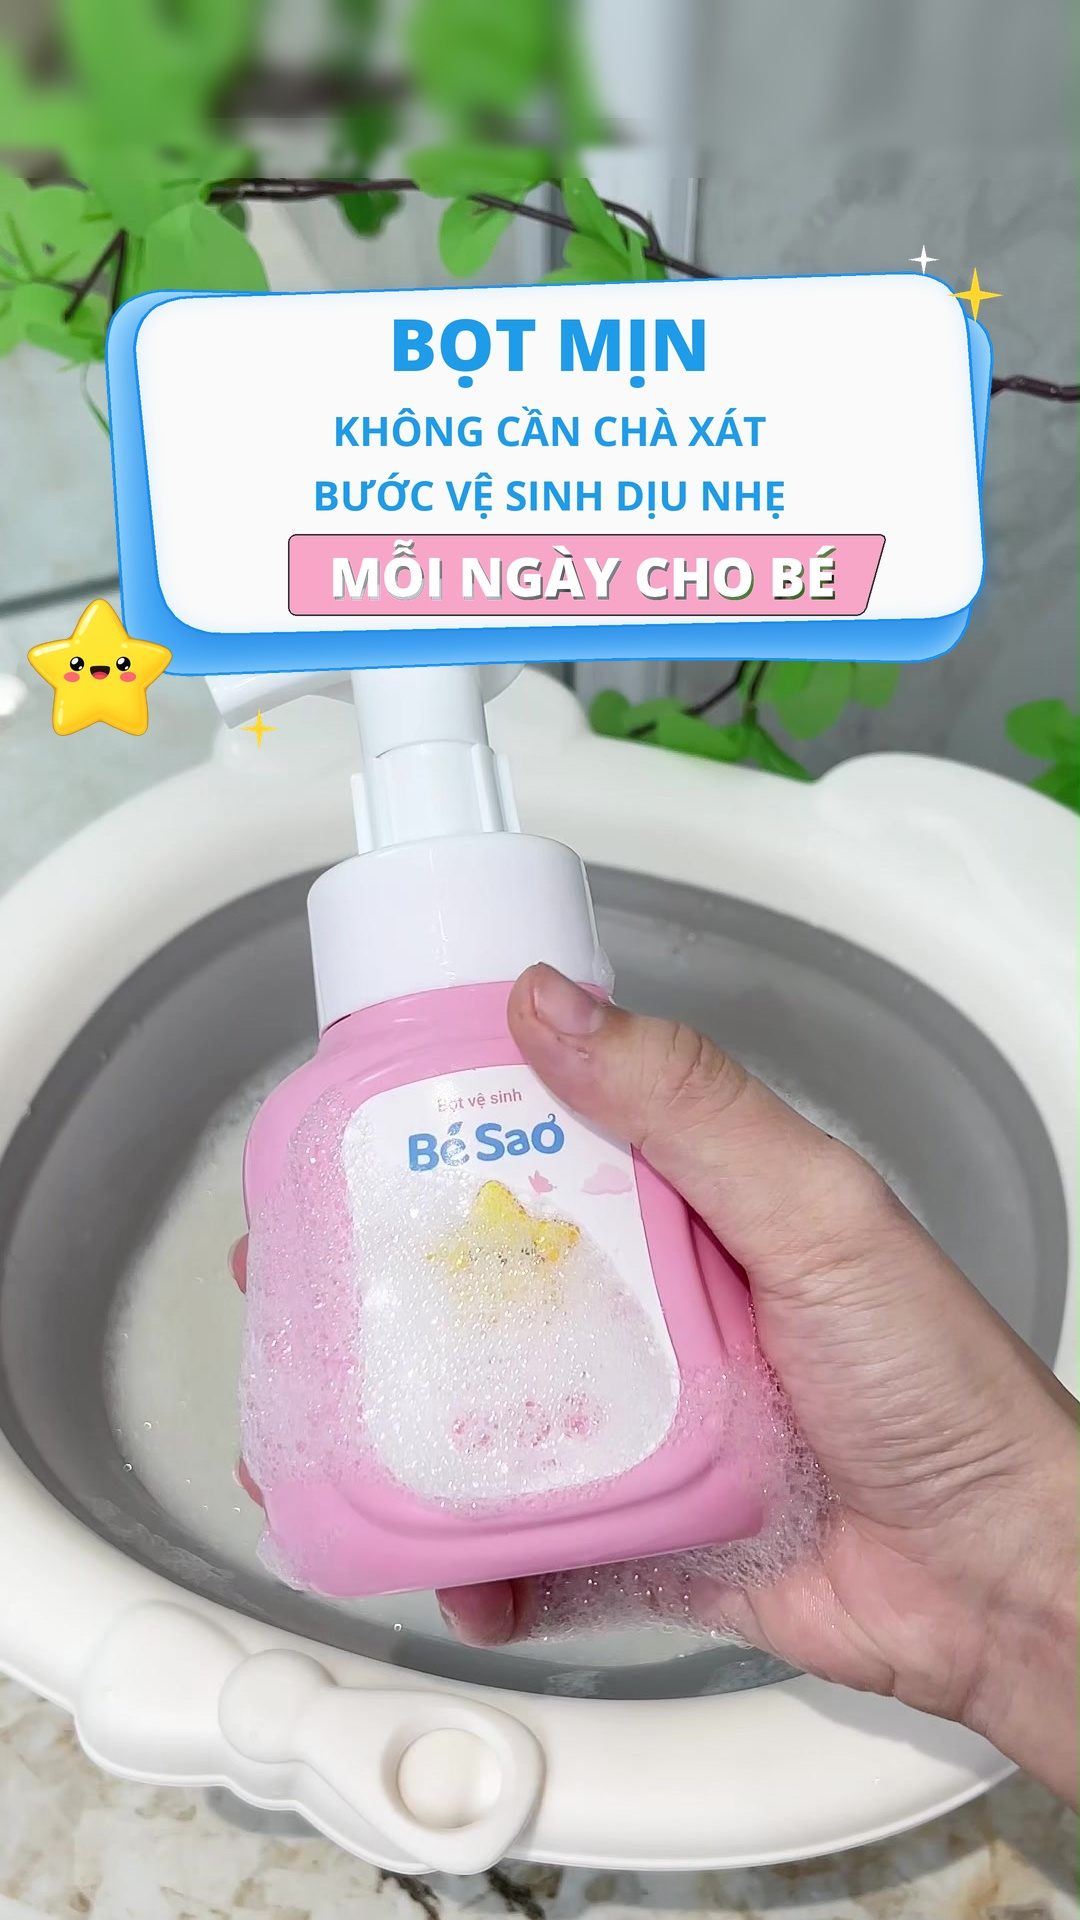
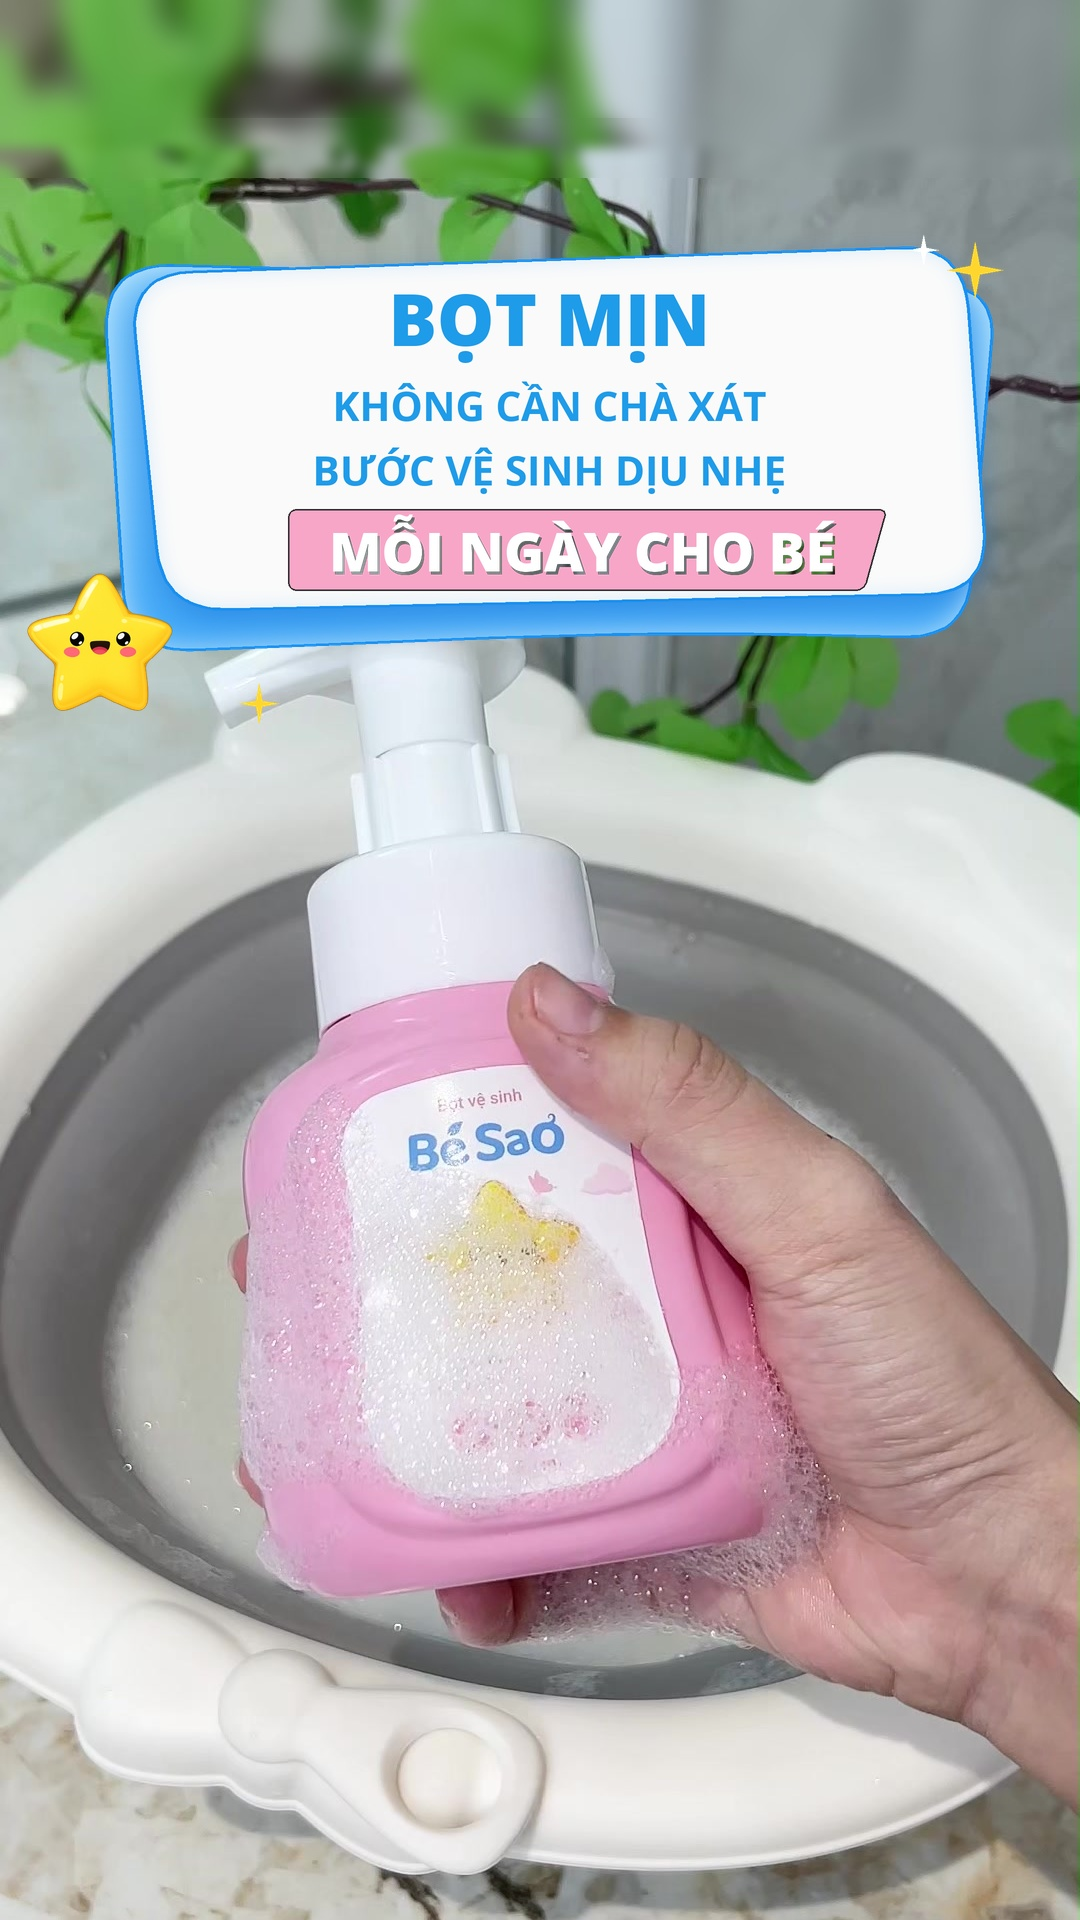
Add --nhich to nudge the card; raise the Bọt mịn card slightly
Claude-Session: https://claude.ai/code/session_01Ug3WuR9fbtqxhsVyfjB7mN

Changed region(s): [[0.0306, 0.125, 0.9167, 0.4062]]

diff --git a/.claude/skills/tao-anh-bia/scripts/tao_anh_bia.py b/.claude/skills/tao-anh-bia/scripts/tao_anh_bia.py
@@ -907,6 +907,8 @@ def main():
                     help="toạ độ y (px, trên ảnh 1080x1920) của đỉnh đầu người trong ảnh; "
                          "bỏ trống để tự nhận diện khuôn mặt")
     ap.add_argument("--che-dau", action="store_true", help="tắt chế độ tránh che đầu")
+    ap.add_argument("--nhich", type=int, default=0,
+                    help="nhích khung lên (số dương) hoặc xuống (số âm) bấy nhiêu px sau khi tự đặt; không lên quá y=250")
     ap.add_argument("--giua", action="store_true",
                     help="đặt khung ở giữa mép trên ảnh và đỉnh đầu (cao hơn; có thể bị cắt một phần trên lưới 3:4 của TikTok)")
     a = ap.parse_args()
@@ -936,6 +938,8 @@ def main():
             if day:
                 nen = nen_9_16(a.anh, day)
 
+    if a.nhich:
+        y_top = max(VUNG_AN_TOAN_TREN, y_top - a.nhich)
     lop = tao_lop_phu(a.hook, sao, a.diem_nhan, y_top, ty_le)
     if a.anh:
         base = os.path.splitext(a.anh)[0]
